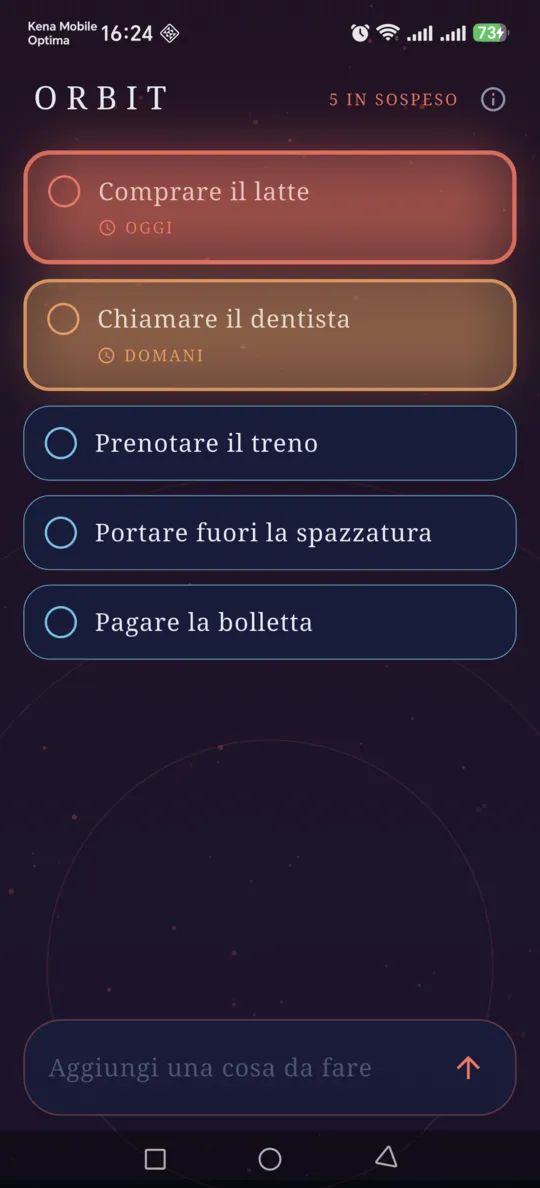
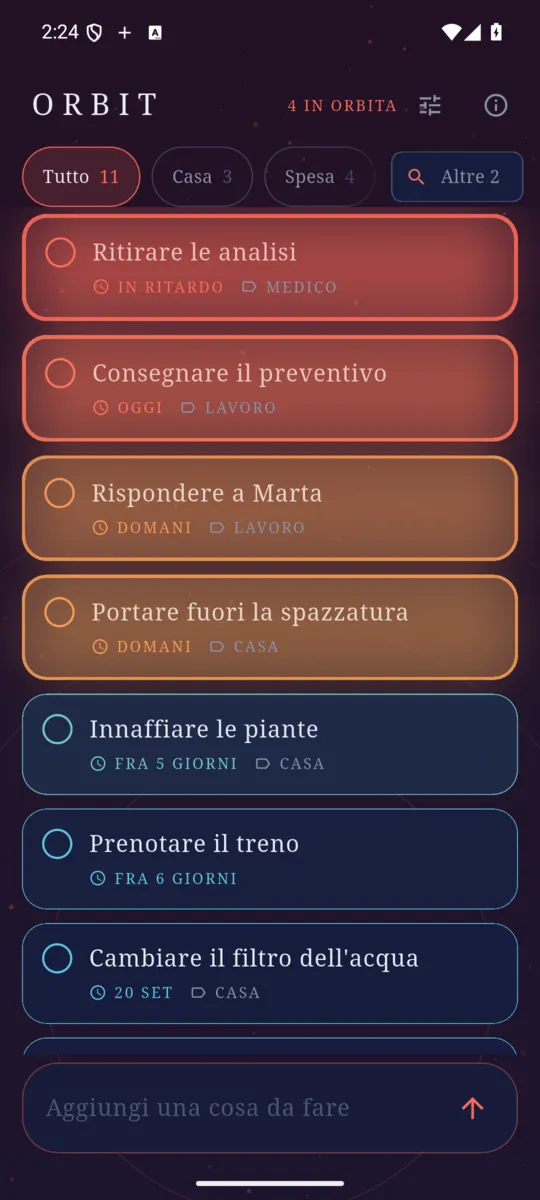
docs: la pagina di Orbit mostra le liste e la condivisione

diff --git a/mcma-orbit/index.html b/mcma-orbit/index.html
@@ -31,11 +31,19 @@
       <figcaption>In cima c’è quello che preme di più. Il colore è la scadenza, non un’etichetta.</figcaption>
     </figure></li>
     <li><figure>
-      <img src="assets/shot-2.webp" loading="lazy" alt="Il foglio «Per quando?» con oggi, domani, fra una settimana e una data a scelta.">
-      <figcaption>Una data in due tocchi: oggi, domani, fra una settimana, o quella che vuoi tu.</figcaption>
+      <img src="assets/shot-2.webp" loading="lazy" alt="Il foglio con tutte le liste, ognuna con il suo numero e i suoi contrassegni.">
+      <figcaption>Una lista per cosa, e le due o tre che usi restano in vista.</figcaption>
     </figure></li>
     <li><figure>
-      <img src="assets/shot-3.webp" loading="lazy" alt="Il campo di aggiunta in fondo allo schermo, con la tastiera aperta.">
+      <img src="assets/shot-3.webp" loading="lazy" alt="Una lista condivisa: ogni voce porta il nome di chi l’ha scritta e il luogo della lista.">
+      <figcaption>Una lista condivisa: si vede chi ha toccato cosa, e il luogo vale per tutte.</figcaption>
+    </figure></li>
+    <li><figure>
+      <img src="assets/shot-4.webp" loading="lazy" alt="Il foglio di una voce: data, luogo e lista in cui spostarla.">
+      <figcaption>Data, luogo e lista di una voce: un tocco lungo e c’è tutto.</figcaption>
+    </figure></li>
+    <li><figure>
+      <img src="assets/shot-5.webp" loading="lazy" alt="Il campo di aggiunta in fondo allo schermo, con la tastiera aperta.">
       <figcaption>Il campo per aggiungere è in fondo, dove sta già il pollice.</figcaption>
     </figure></li>
   </ul>

diff --git a/mcma-orbit/en/index.html b/mcma-orbit/en/index.html
@@ -30,11 +30,19 @@
       <figcaption>What presses hardest is at the top. The colour is the deadline, not a label.</figcaption>
     </figure></li>
     <li><figure>
-      <img src="../assets/shot-2.webp" loading="lazy" alt="The "when?" sheet, offering today, tomorrow, in a week or a date of your own.">
-      <figcaption>A date in two taps: today, tomorrow, in a week, or one you pick.</figcaption>
+      <img src="../assets/shot-2.webp" loading="lazy" alt="The sheet with every list, each with its count and its marks.">
+      <figcaption>A list per thing, and the two or three you live in stay in sight.</figcaption>
     </figure></li>
     <li><figure>
-      <img src="../assets/shot-3.webp" loading="lazy" alt="The add field at the bottom of the screen, keyboard open.">
+      <img src="../assets/shot-3.webp" loading="lazy" alt="A shared list: every entry carries who wrote it and the place of the list.">
+      <figcaption>A shared list: you can see who touched what, and the place covers them all.</figcaption>
+    </figure></li>
+    <li><figure>
+      <img src="../assets/shot-4.webp" loading="lazy" alt="An entry's sheet: date, place, and the list to move it to.">
+      <figcaption>Date, place and list of an entry: one long press and it is all there.</figcaption>
+    </figure></li>
+    <li><figure>
+      <img src="../assets/shot-5.webp" loading="lazy" alt="The add field at the bottom of the screen, keyboard open.">
       <figcaption>The add field sits at the bottom, where your thumb already is.</figcaption>
     </figure></li>
   </ul>
